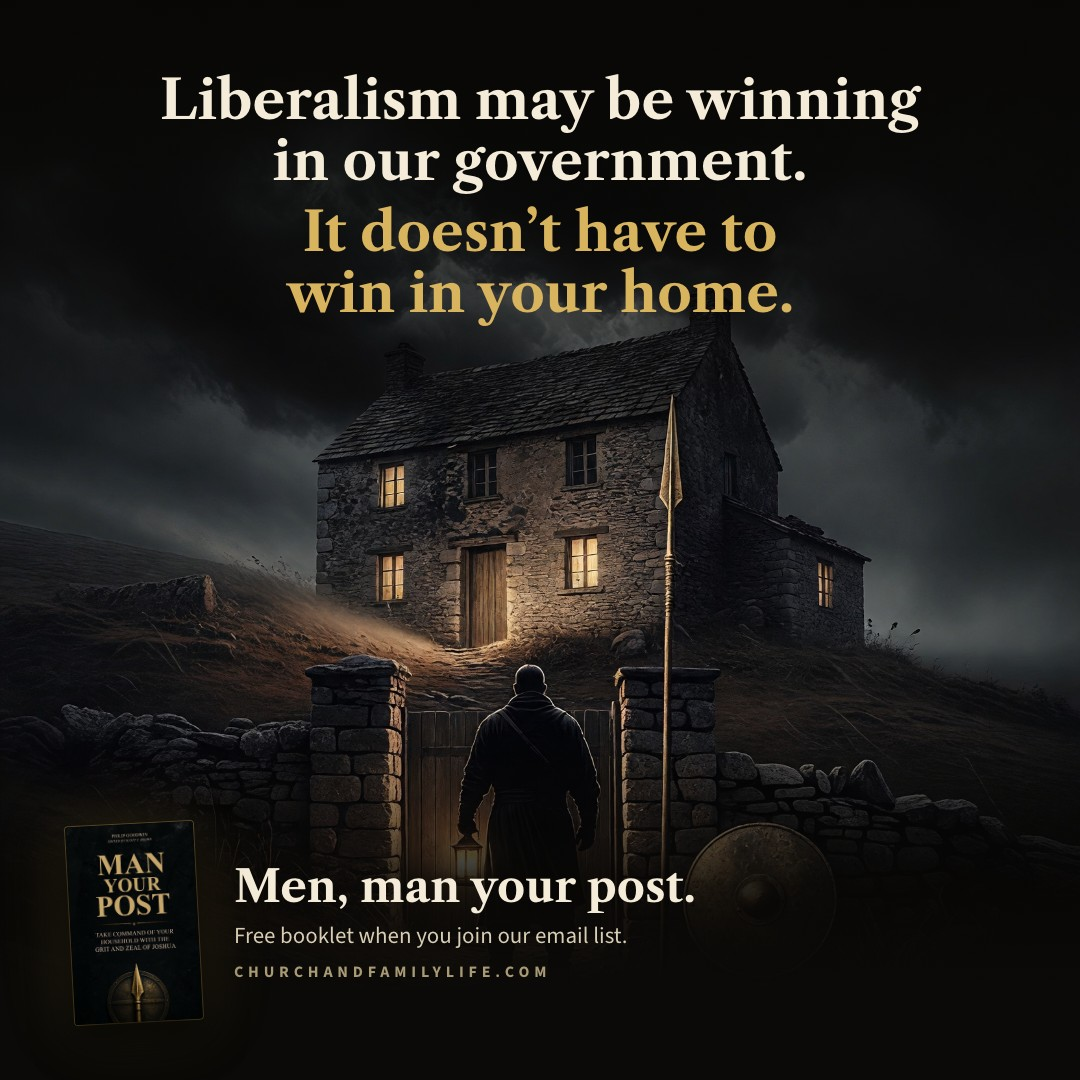
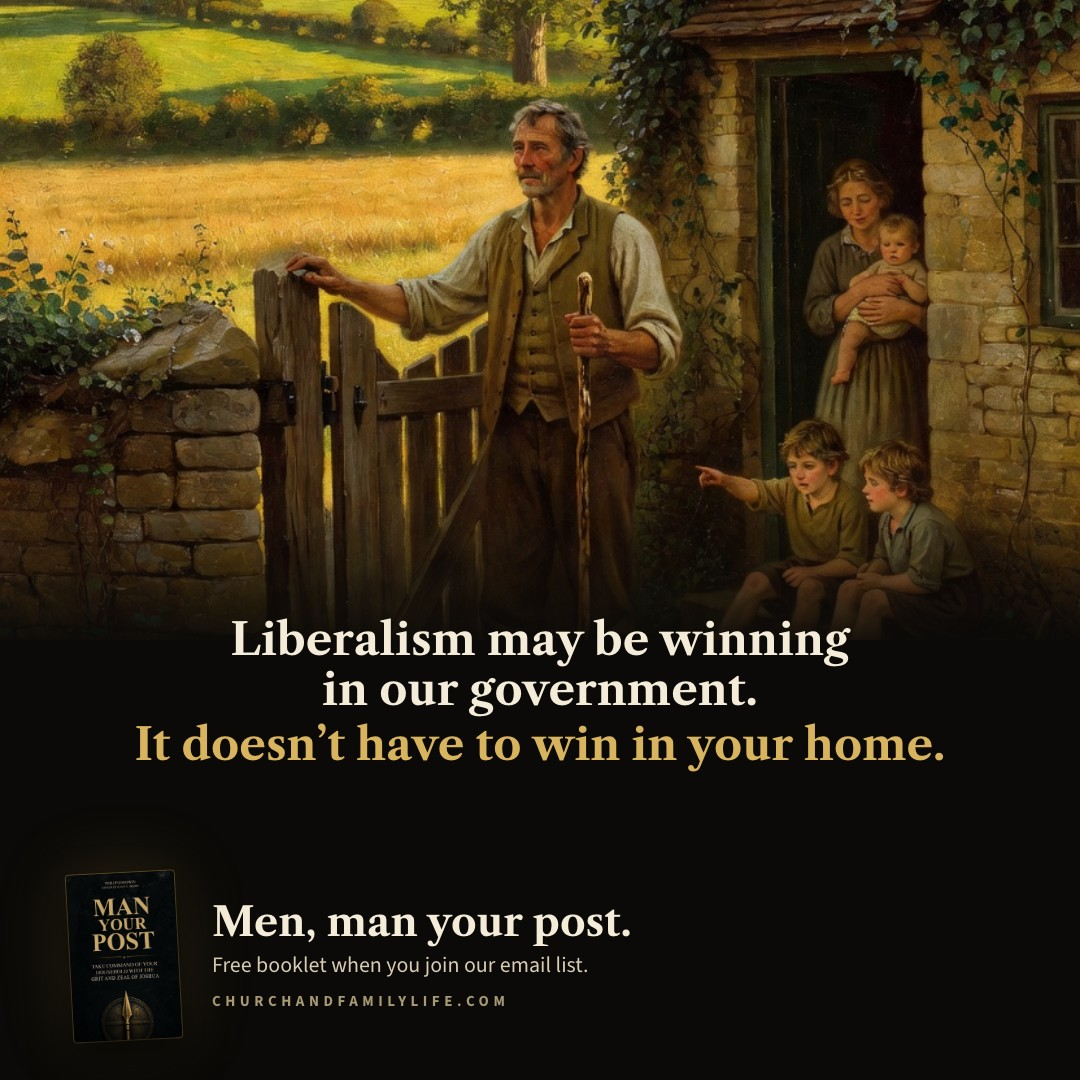
v2 artwork: Foster-style realist painting backgrounds

diff --git a/index.html b/index.html
@@ -33,7 +33,7 @@ ul.n li{margin:6px 0;color:#cfc5ad}code{background:#1d1a14;padding:1px 6px;borde
 <div><img src="assets/popup-mobile.png" alt="Popup on mobile"><div class="cap">iPhone (390px)</div><img style="margin-top:18px" src="assets/popup-mobile-success.png" alt="Mobile success"><div class="cap">After sign-up</div></div></div>
 </div></section>
 
-<section><div class="w"><h2>2 · Social artwork</h2><p class="sub">Click any image for the full-size file to download and post.</p>
+<section><div class="w"><h2>2 · Social artwork</h2><p class="sub">v2 (9:20am): background changed to a 19th-century realist oil painting, the kind Michael Foster uses on his X articles. The painting runs unshaded at the top, and the black-and-gold panel with the booklet sits below it. Click any image for the full-size file. The first dark versions are still in <a href="social/v1-dark/feed-1080x1350.jpg">social/v1-dark/</a>.</p>
 <div class="grid"><div><a href="social/feed-1080x1350.jpg" target="_blank"><img src="social/feed-1080x1350.jpg" alt="Feed · 1080×1350" loading="lazy"></a><div class="tag" style="margin-top:8px">Feed · 1080×1350</div><div class="cap">Instagram / Facebook portrait</div></div><div><a href="social/square-1080.jpg" target="_blank"><img src="social/square-1080.jpg" alt="Square · 1080×1080" loading="lazy"></a><div class="tag" style="margin-top:8px">Square · 1080×1080</div><div class="cap">Facebook, IG grid, LinkedIn</div></div><div><a href="social/story-1080x1920.jpg" target="_blank"><img src="social/story-1080x1920.jpg" alt="Story · 1080×1920" loading="lazy"></a><div class="tag" style="margin-top:8px">Story · 1080×1920</div><div class="cap">IG / FB Story</div></div><div><a href="social/wide-1600x900.jpg" target="_blank"><img src="social/wide-1600x900.jpg" alt="Wide · 1600×900" loading="lazy"></a><div class="tag" style="margin-top:8px">Wide · 1600×900</div><div class="cap">X, Facebook link post, email header</div></div><div><a href="social/quote-1080x1350.jpg" target="_blank"><img src="social/quote-1080x1350.jpg" alt="Quote card · 1080×1350" loading="lazy"></a><div class="tag" style="margin-top:8px">Quote card · 1080×1350</div><div class="cap">Post 2 / carousel slide 2</div></div></div>
 </div></section>
 
@@ -89,7 +89,7 @@ https://churchandfamilylife.com/?free=man-your-post&amp;utm_source=social&amp;ut
 <li><b>Email list wiring:</b> the widget supports a Mailchimp embedded-form URL or a JSON endpoint. It tags sign-ups <code>giveaway-man-your-post</code> so an automation can send the PDF. The demo submits nowhere.</li>
 <li><b>Copy edits from the original line:</b> "but not in your home" → "It doesn't have to win in your home". "maning" → "Man your post." (the book's title as the last word).</li>
 <li>Other headline options: "Washington may belong to liberalism. Your home doesn't have to." · "No election decides who leads your home."</li>
-<li>Background art was AI-generated for this campaign. All lettering and the real book cover are composited on top, so they're crisp and easy to edit.</li>
+<li>The background painting was AI-generated in the style of 19th-century English genre painters (Smythe, Mulready). It's not a real artwork, so there's no artist to credit. All lettering and the real book cover are layered on top, so they're crisp and easy to edit. Other paintings from the same set: <a href="art/painting-alt-3.jpg">alt 3</a>, <a href="art/painting-alt-4.jpg">alt 4</a>.</li>
 </ul></div></section>
 <footer class="w" style="padding:30px 24px 60px;color:#6f6754;font-size:13px">Temporary review draft. Nothing here is live on churchandfamilylife.com.</footer>
 <script>document.querySelectorAll('.copy').forEach(b=>b.onclick=()=>{navigator.clipboard.writeText(document.getElementById(b.dataset.t).innerText);b.textContent='Copied';setTimeout(()=>b.textContent='Copy',1500)})</script>

diff --git a/COPY.md b/COPY.md
@@ -102,4 +102,4 @@ X post length: 250/280 (links count as 23).
 - Nonprofit guardrail: the copy names an ideology ("liberalism"), never a candidate or party, so it stays inside the 501(c)(3) line on campaign intervention. Keep any edits that way.
 - All social links go to `?free=man-your-post`, which opens the popup immediately on any page. **Don't publish the posts until the popup is live**, or that link just lands on the homepage. Until then, point them at the product page.
 - "Free copy" is set up as a **digital** copy delivered by email. The site has 50 print copies in stock, so a free print giveaway would need a shipping or quantity decision first.
-- Artwork: the background art was AI-generated for this campaign (no text in the image). The headline, cover, and type are rendered on top with `render.mjs` (Libre Caslon Text + Source Sans 3), so wording edits just mean re-running `node render.mjs cards`.
+- Artwork v2 (David, 09:06): "lighter but still strong, an image Michael Foster would use for his X articles". The background is now an AI-generated 19th-century realist oil painting (a father at his cottage gate, his family in the doorway). It's not a real artwork, so there's no artist credit. The booklet panel is unchanged. The v1 dark art is in social/v1-dark/. The headline, cover, and type are rendered on top with `render.mjs` (Libre Caslon Text + Source Sans 3), so wording edits just mean re-running `node render.mjs cards`.
